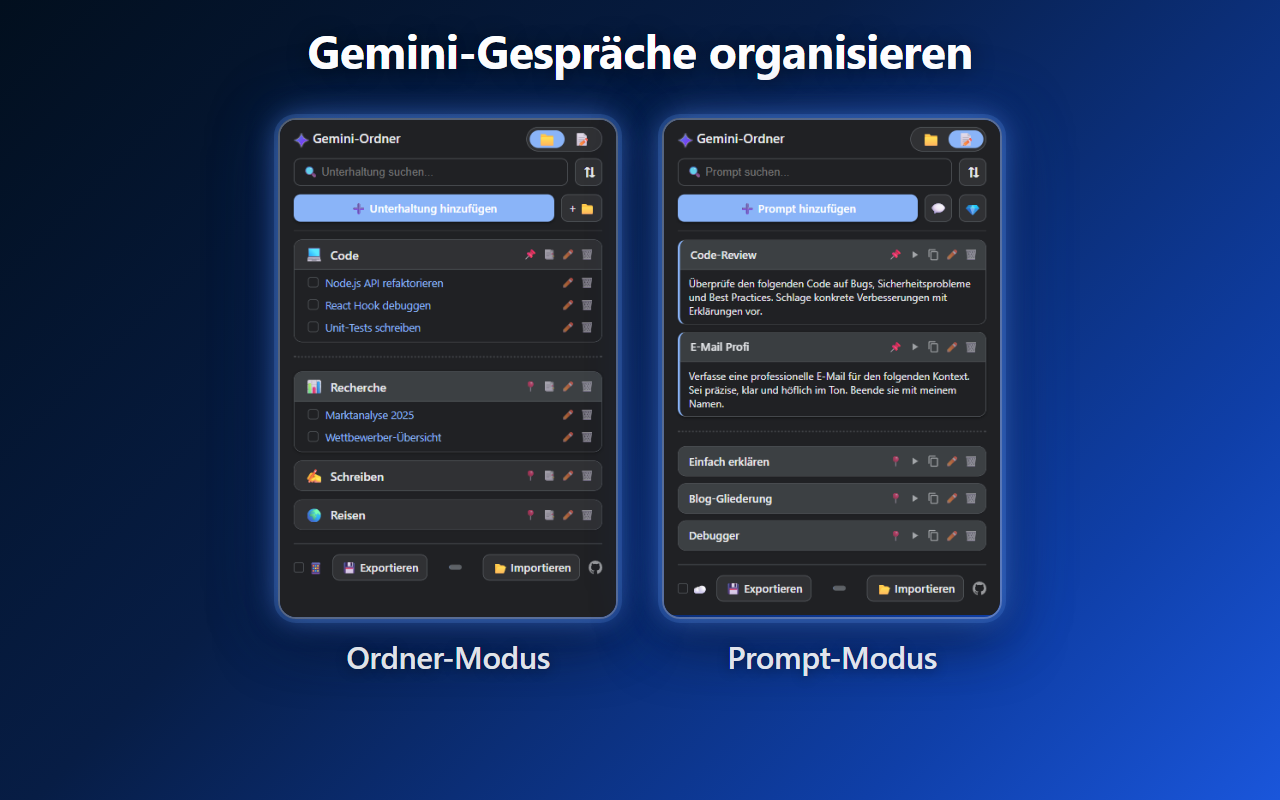
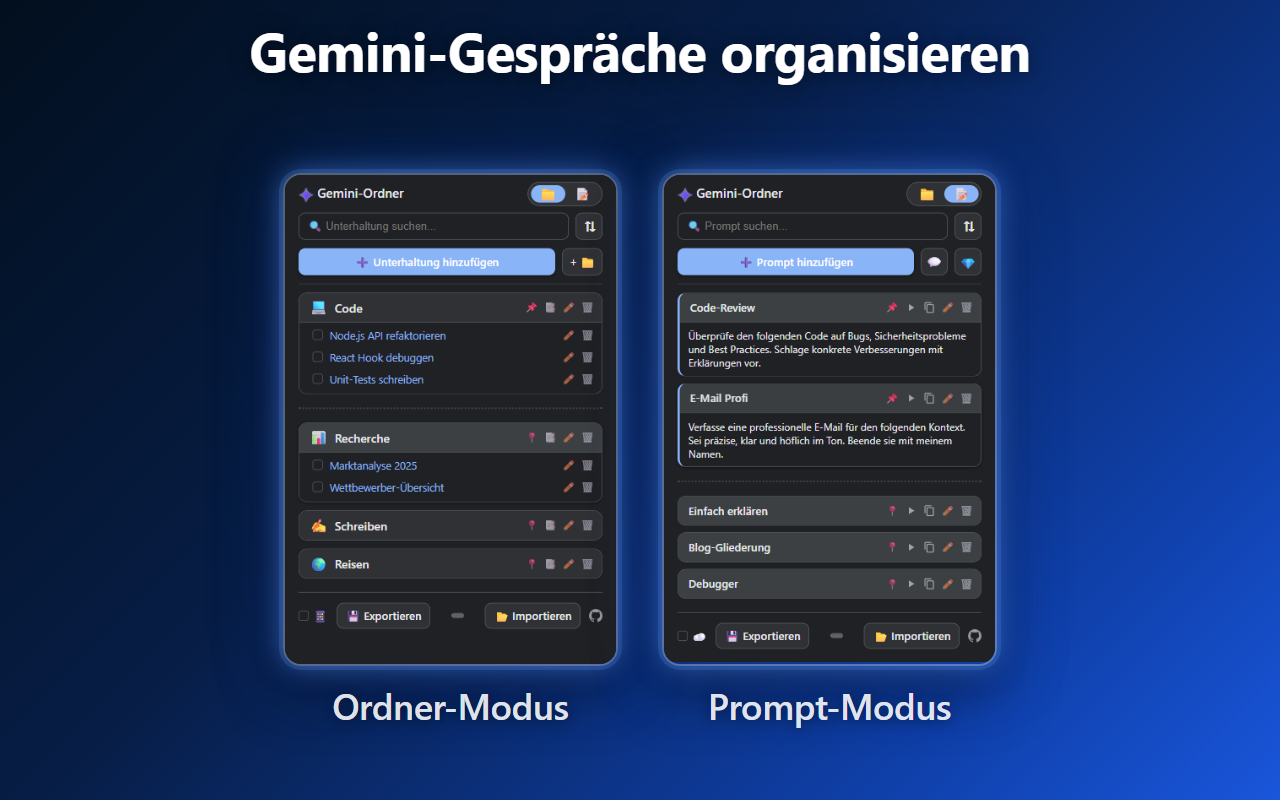
Adjusted store image composition

Changed region(s): [[0.1875, 0.0312, 0.8125, 0.9062], [0.25, 0.875, 0.4688, 0.9062]]

diff --git a/screenshots/take-screenshots.js b/screenshots/take-screenshots.js
@@ -160,19 +160,18 @@ async function compositeScreenshot(page, folderPath, promptPath, localeData, out
   const CANVAS_H     = 800;
   const TITLE_H      = 100;  // vertical space for the title
   const OUTER_PAD    = 24;   // left/right edge padding
-  const V_PAD_TOP    = 18;   // between title and popups
-  const LABEL_MARGIN = 14;   // between popup bottom and label
-  const LABEL_H      = 46;   // height reserved for mode label text
-  const V_PAD_BOT    = 14;   // below labels
-  const GAP          = 44;   // between the two popups
-  const LABEL_FONT   = Math.round(46 * 2 / 3); // 2/3 of title size
+  const V_GUARD      = 20;   // min padding above/below popup block (for scale cap)
+  const LABEL_MARGIN = 16;   // gap between popup bottom and mode label
+  const LABEL_H      = 46;   // height of mode label text area
+  const GAP          = 44;   // gap between the two popups
+  const LABEL_FONT   = Math.round(54 * 2 / 3); // 2/3 of title font size
 
   const folderH = pngHeight(folderPath);
   const promptH = pngHeight(promptPath);
 
-  // Available area for popups (labels sit below, not beside)
+  // Available area for popups — used only for scale computation
   const availW = CANVAS_W - OUTER_PAD * 2;
-  const availH = CANVAS_H - TITLE_H - V_PAD_TOP - LABEL_MARGIN - LABEL_H - V_PAD_BOT;
+  const availH = CANVAS_H - TITLE_H - V_GUARD * 2 - LABEL_MARGIN - LABEL_H;
 
   // Uniform scale: fit both popups (same display width) within the available area
   const scaleByW = (availW - GAP) / 2 / POPUP_WIDTH;
@@ -188,8 +187,11 @@ async function compositeScreenshot(page, folderPath, promptPath, localeData, out
   const blockW  = dispW * 2 + GAP;
   const leftX   = OUTER_PAD + Math.round((availW - blockW) / 2);
   const rightX  = leftX + dispW + GAP;
-  const topY    = TITLE_H + V_PAD_TOP;
-  const labelY  = topY + sharedDispH + LABEL_MARGIN;
+
+  // Vertical centering: center the popup+label block in the space below the title
+  const totalContentH = sharedDispH + LABEL_MARGIN + LABEL_H;
+  const topY   = TITLE_H + Math.round((CANVAS_H - TITLE_H - totalContentH) / 2);
+  const labelY = topY + sharedDispH + LABEL_MARGIN;
 
   // Strip emoji from labels — show text only below the popups
   const folderText = localeData.folderLabel.replace(/^\S+\s*/, '');
@@ -225,7 +227,7 @@ async function compositeScreenshot(page, folderPath, promptPath, localeData, out
     align-items: center;
     justify-content: center;
     color: #ffffff;
-    font-size: 46px;
+    font-size: 54px;
     font-weight: 700;
     letter-spacing: -0.01em;
     text-shadow: 0 2px 20px rgba(0,0,0,0.5);
